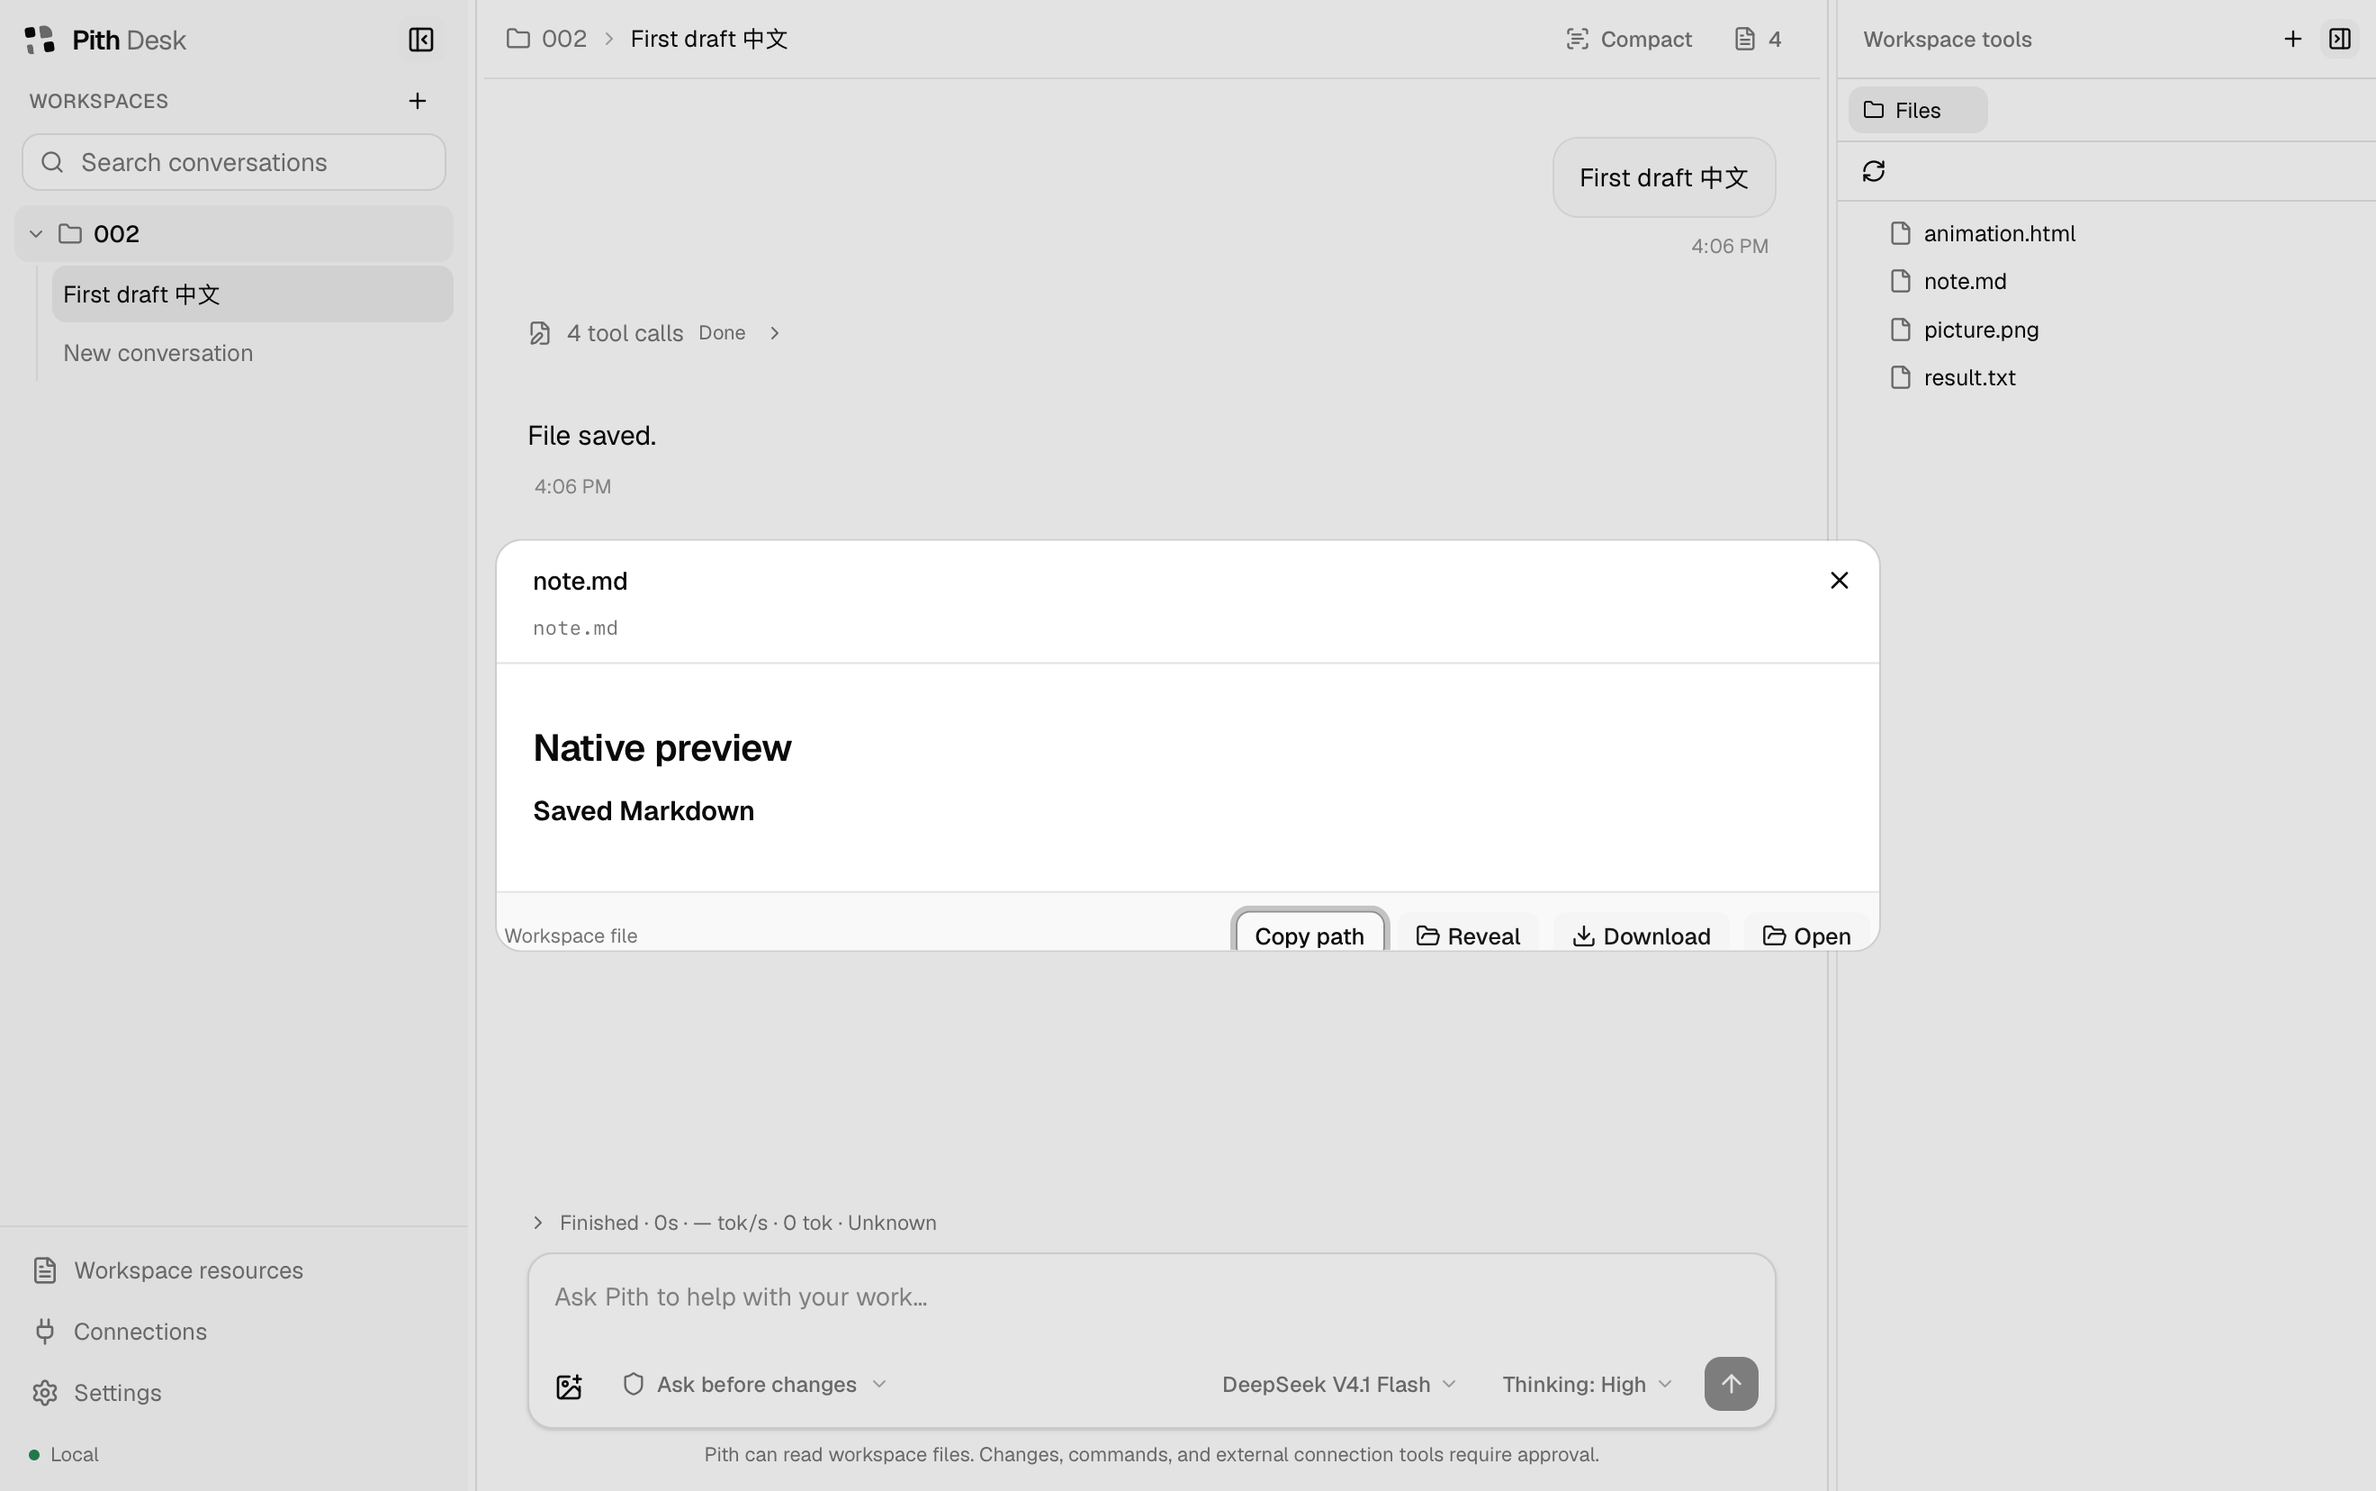
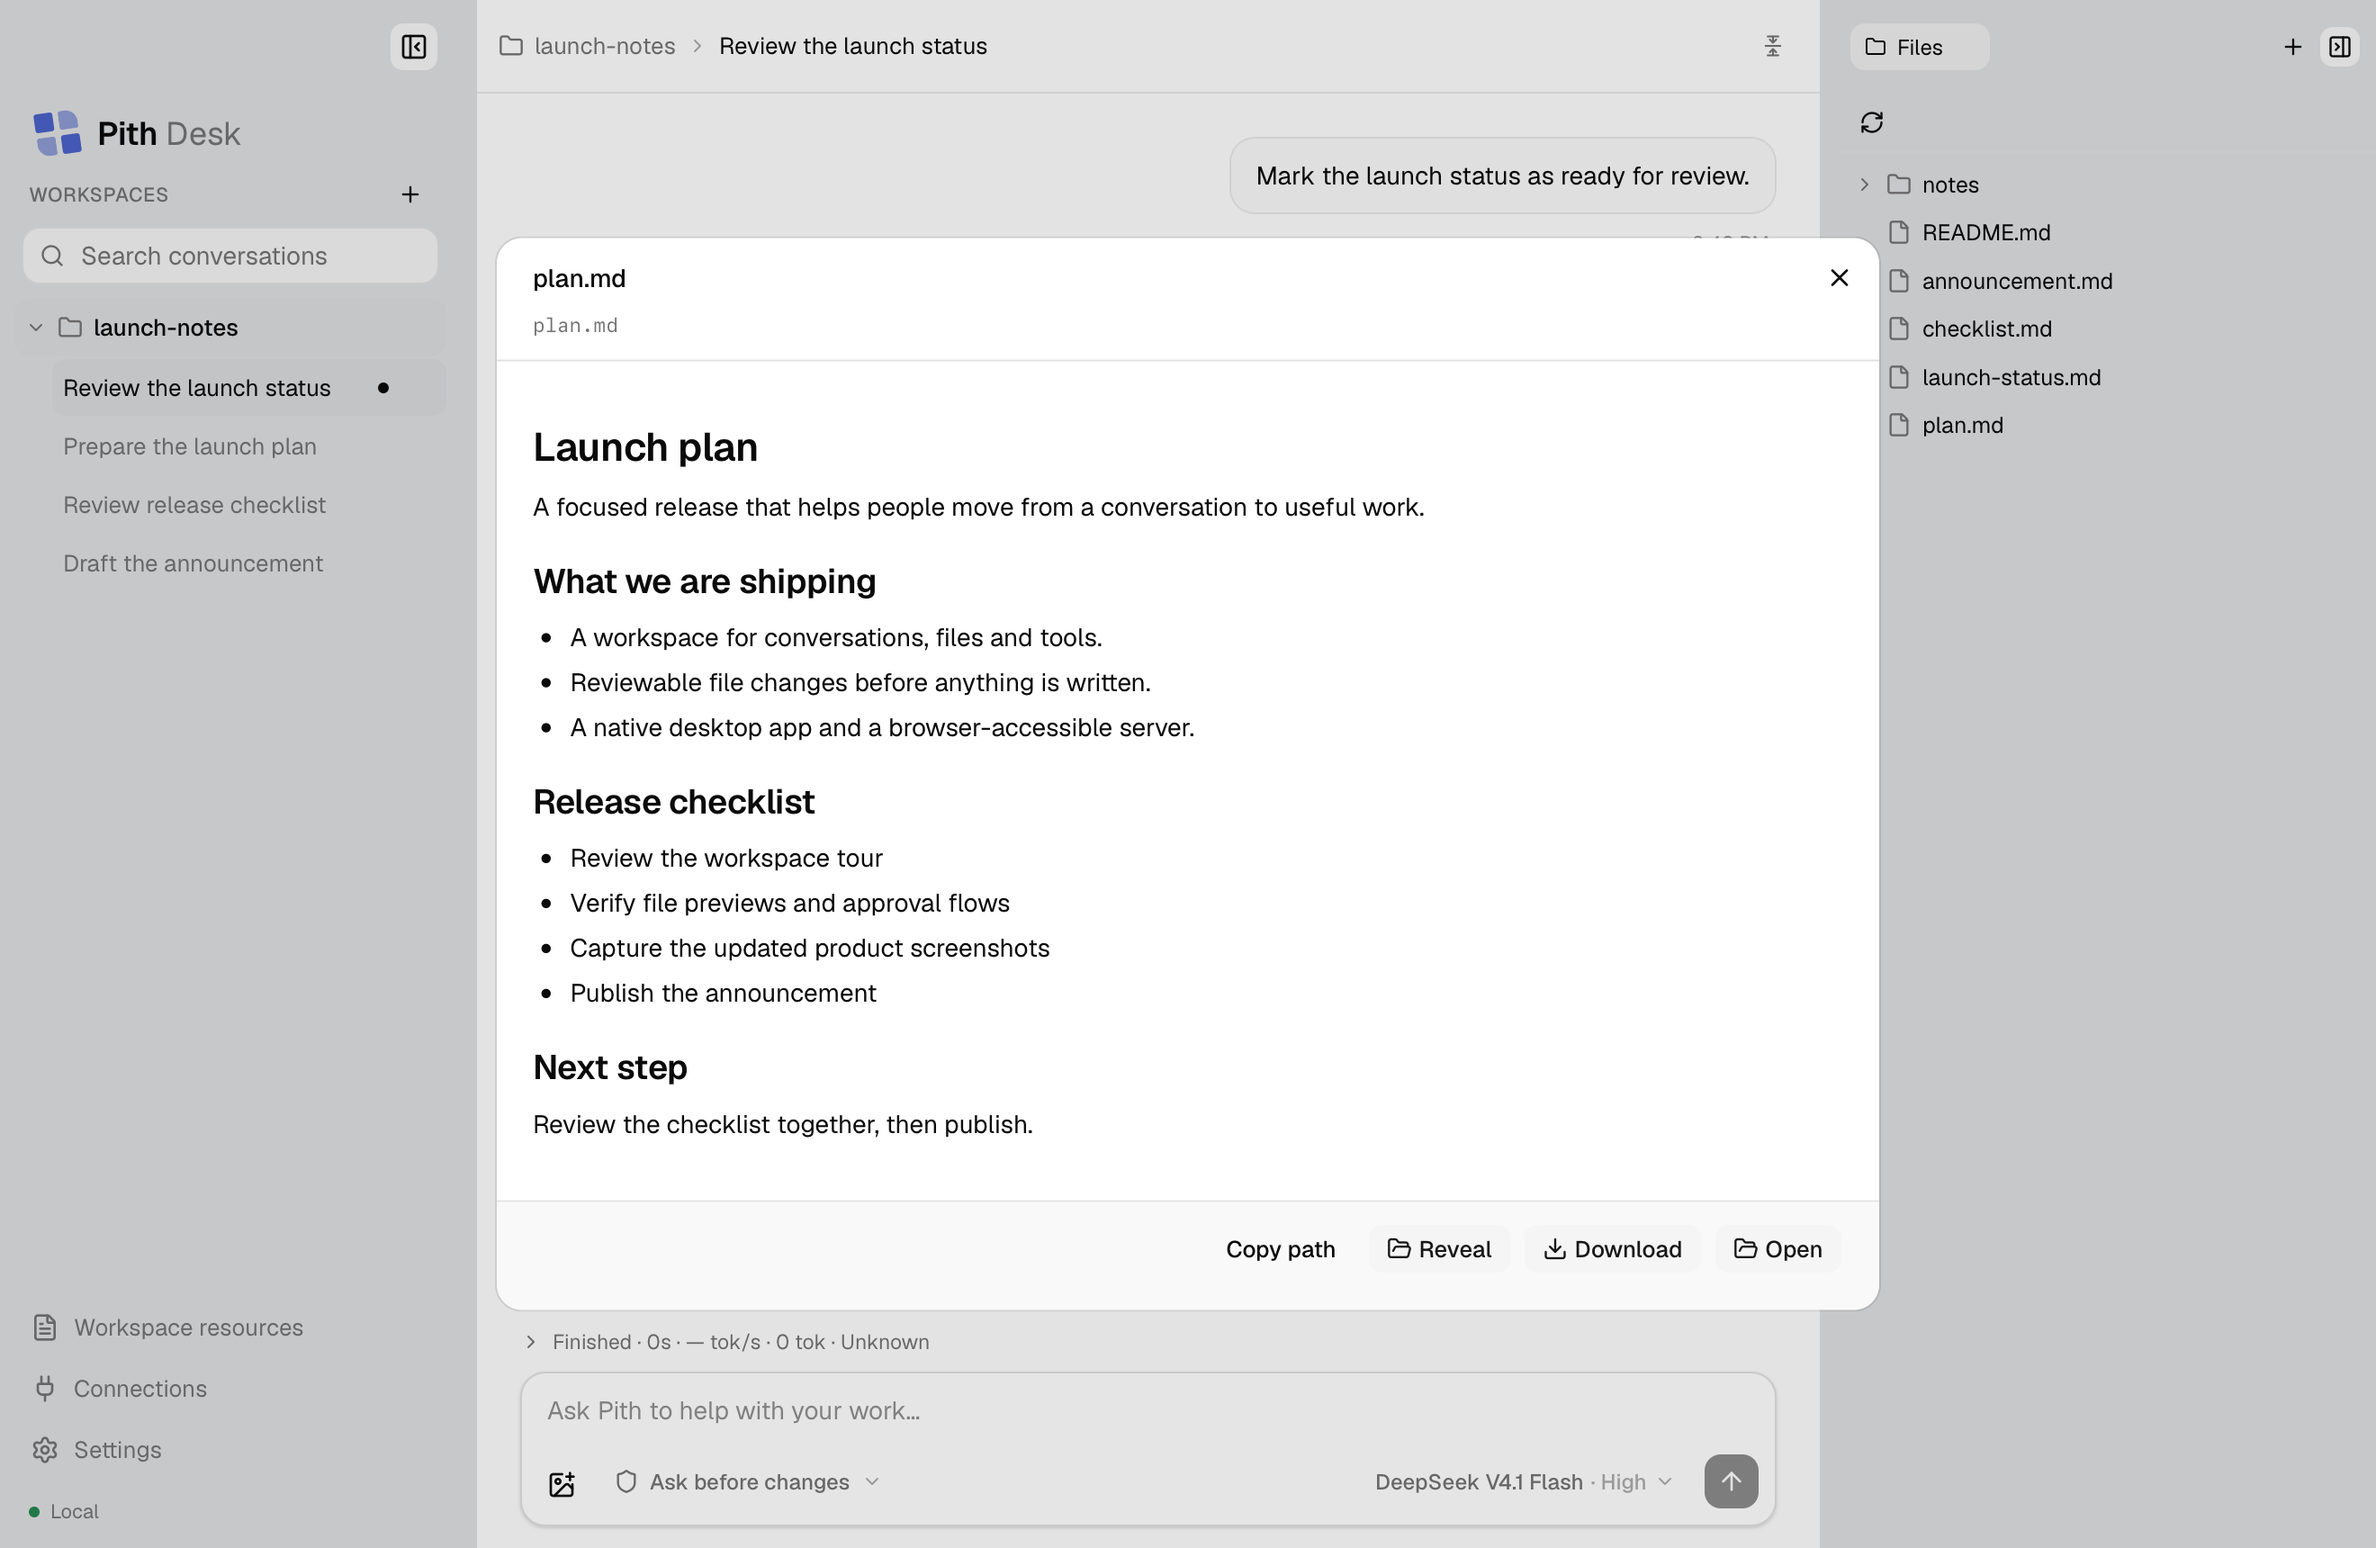
docs: refresh README screenshots

diff --git a/README.md b/README.md
@@ -2,9 +2,9 @@
 
 A workspace for getting things done with an AI agent, available as a native **Desktop** app or a headless **Server** accessed through your browser. Bring your model connection, choose a folder, and work through conversations, files and reviewed tool actions.
 
-![Pith Desk in Light appearance, showing workspace navigation, the conversation view and workspace tools](docs/images/pith-desk-overview.png)
+![Pith Desk in Light appearance, showing a project conversation and its workspace files](docs/images/pith-desk-overview.png)
 
-*Current macOS desktop in Light appearance. All screenshots use demonstration workspaces and conversation data.*
+*Current macOS Desktop UI in Light appearance. All screenshots use an isolated demonstration workspace and conversation data.*
 
 - **Workspace conversations:** streamed replies, text and image drafts, searchable history, branches and concurrent tasks in separate folders.
 - **Review before changes:** file diffs and tool approvals, with permission settings for each conversation.
@@ -71,7 +71,7 @@ Open **Settings → Appearance** to choose **Light**, **Dark**, or **Follow syst
 
 Appearance changes apply immediately, including during an agent task, and are saved in the local settings file for the next launch. Native window controls follow the same preference. Model settings and conversation permissions are independent of appearance.
 
-![Pith Desk showing a reviewable file change awaiting approval](docs/images/pith-desk-approval.png)
+![Pith Desk in Dark appearance, showing a Markdown edit and its diff awaiting approval](docs/images/pith-desk-approval.png)
 
 *Dark appearance with a file change ready for review.*
 
@@ -376,7 +376,7 @@ through the same workspace checks as the existing file actions.
 
 ![Pith Desk showing a rendered Markdown file in its file preview dialog](docs/images/pith-desk-file-preview.png)
 
-*Preview a generated file without leaving the conversation.*
+*Preview a workspace Markdown file without leaving the conversation.*
 
 Drop existing files from the selected workspace into the message area to insert editable, workspace-relative paths. Multiple files, spaces and Chinese names are supported. These are plain Markdown path references; dropping them does not import or read their contents. Images keep their existing attachment behavior. The browser can validate complete local file URIs; when it hides the path, type the relative path or use the desktop app.
 
